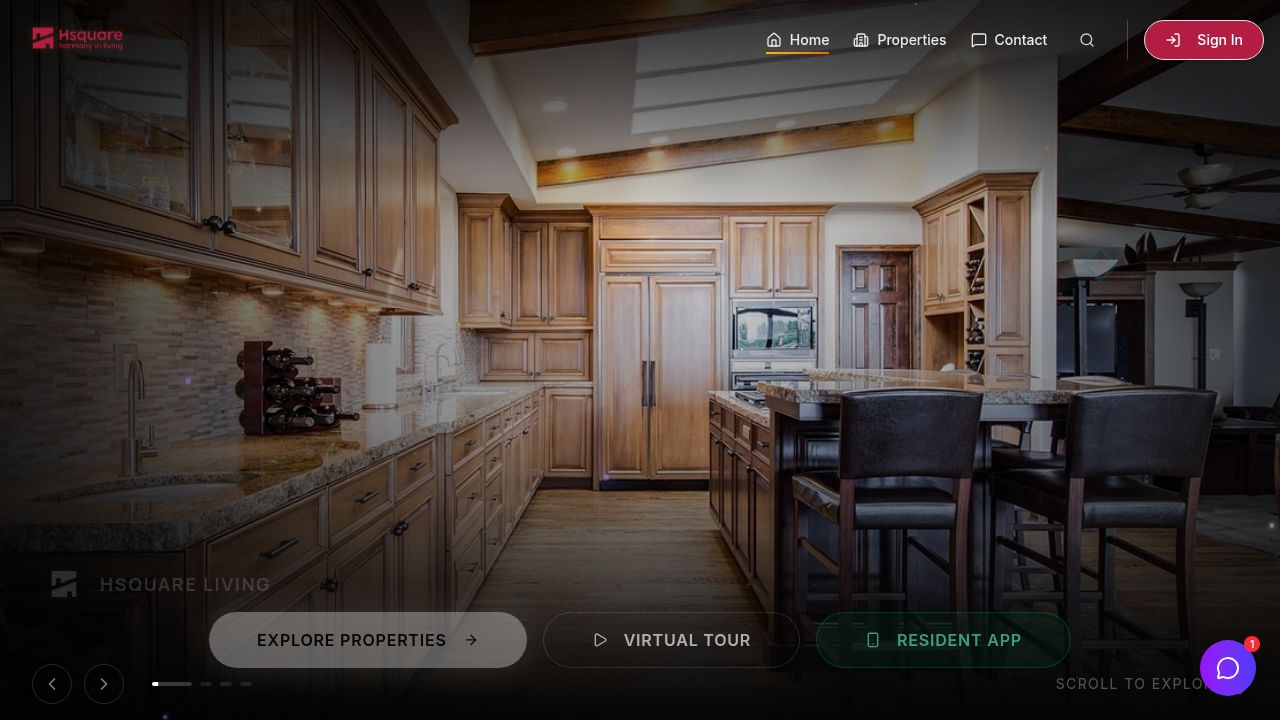
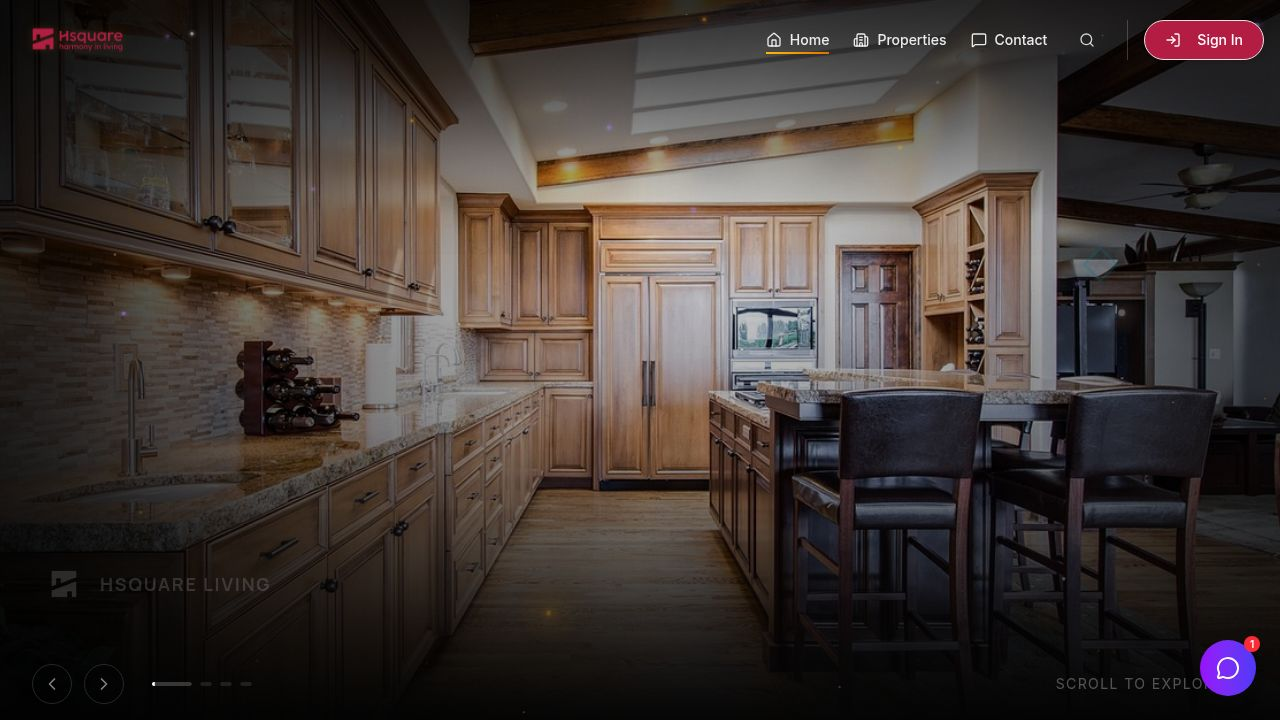
Improve property page performance by removing heavy animations
Remove ParticleBackground, replace Framer Motion animations with CSS transitions, and simplify fullscreen view and progress bar animations.

Replit-Commit-Author: Agent
Replit-Commit-Session-Id: 571d2e0a-bdfa-461c-8d42-0290f49cc8a8
Replit-Commit-Checkpoint-Type: full_checkpoint
Replit-Commit-Event-Id: e01cf620-2c3c-489f-afd0-9998eb312b54
Replit-Commit-Screenshot-Url: https://storage.googleapis.com/screenshot-production-us-central1/407aa99d-4557-45be-8959-002f7409d70a/571d2e0a-bdfa-461c-8d42-0290f49cc8a8/wml9TCs
Replit-Helium-Checkpoint-Created: true

diff --git a/client/src/pages/property-booking.tsx b/client/src/pages/property-booking.tsx
@@ -55,7 +55,6 @@ import {
   Crown, IndianRupee, CheckCircle2,
   GraduationCap, Train, Landmark, Hospital, ShoppingBag, UtensilsCrossed, MapPinned,
 } from "lucide-react";
-import { ParticleBackground } from "@/components/particle-background";
 
 function parseImages(json: string | null | undefined): string[] {
   if (!json) return [];
@@ -82,8 +81,6 @@ function ImmersiveTour({ property, onStartBooking }: { property: any; onStartBoo
   const [isPlaying, setIsPlaying] = useState(true);
   const [isFullscreen, setIsFullscreen] = useState(false);
   const [showGrid, setShowGrid] = useState(false);
-  const [isTransitioning, setIsTransitioning] = useState(false);
-  const [showRoomNav, setShowRoomNav] = useState(true);
   const [cursorPos, setCursorPos] = useState({ x: 50, y: 50 });
   const [isZoomed, setIsZoomed] = useState(false);
   const touchStartX = useRef<number | null>(null);
@@ -107,8 +104,6 @@ function ImmersiveTour({ property, onStartBooking }: { property: any; onStartBoo
 
   useEffect(() => {
     setCurrentIndex(0);
-    setIsTransitioning(true);
-    setTimeout(() => setIsTransitioning(false), 600);
   }, [activeRoom]);
 
   useEffect(() => {
@@ -220,7 +215,7 @@ function ImmersiveTour({ property, onStartBooking }: { property: any; onStartBoo
 
   if (showGrid) {
     return (
-      <motion.div initial={{ opacity: 0 }} animate={{ opacity: 1 }} className={cn("bg-black/98 z-50", isFullscreen ? "fixed inset-0" : "relative")}>
+      <div className={cn("bg-black/98 z-50", isFullscreen ? "fixed inset-0" : "relative")}>
         <div className="flex items-center justify-between p-4 border-b border-white/10">
           <div className="flex items-center gap-3">
             <Grid3X3 className="w-5 h-5 text-amber-500" />
@@ -244,37 +239,35 @@ function ImmersiveTour({ property, onStartBooking }: { property: any; onStartBoo
                 </div>
                 <div className="grid grid-cols-3 md:grid-cols-4 lg:grid-cols-5 gap-2">
                   {roomImages.map((img, i) => (
-                    <motion.button key={i} whileHover={{ scale: 1.03 }} onClick={() => { setActiveRoom(room.id); setCurrentIndex(i); setShowGrid(false); }} className="relative aspect-[4/3] overflow-hidden group rounded-lg" data-testid={`grid-image-${room.id}-${i}`}>
+                    <button key={i} onClick={() => { setActiveRoom(room.id); setCurrentIndex(i); setShowGrid(false); }} className="relative aspect-[4/3] overflow-hidden group rounded-lg hover:scale-[1.03] transition-transform" data-testid={`grid-image-${room.id}-${i}`}>
                       <img src={img} alt="" className="w-full h-full object-cover" loading="lazy" />
                       <div className="absolute inset-0 bg-black/0 group-hover:bg-black/30 transition-all flex items-center justify-center">
                         <Eye className="w-6 h-6 text-white opacity-0 group-hover:opacity-100 transition-opacity" />
                       </div>
-                    </motion.button>
+                    </button>
                   ))}
                 </div>
               </div>
             );
           })}
         </div>
-      </motion.div>
+      </div>
     );
   }
 
   if (isFullscreen) {
     return (
-      <motion.div initial={{ opacity: 0 }} animate={{ opacity: 1 }} className="fixed inset-0 z-50 bg-black">
+      <div className="fixed inset-0 z-50 bg-black">
         <div className="absolute inset-0" onTouchStart={handleTouchStart} onTouchEnd={handleTouchEnd} onMouseMove={handleMouseMove} ref={containerRef}>
-          <AnimatePresence mode="wait">
-            <motion.div key={`fs-${activeRoom}-${currentIndex}`} initial={{ opacity: 0, scale: 1.02 }} animate={{ opacity: 1, scale: 1 }} exit={{ opacity: 0 }} transition={{ duration: 0.8, ease: [0.25, 0.1, 0.25, 1] }} className="absolute inset-0">
-              <motion.img src={images[currentIndex]} alt="" className="w-full h-full object-cover" style={isZoomed ? { transform: "scale(2)", transformOrigin: `${cursorPos.x}% ${cursorPos.y}%` } : {}} initial={{ scale: 1.08 }} animate={{ scale: 1 }} transition={{ duration: 12, ease: "linear" }} />
-            </motion.div>
-          </AnimatePresence>
+          <div className="absolute inset-0">
+            <img src={images[currentIndex]} alt="" className="w-full h-full object-cover transition-opacity duration-500" style={isZoomed ? { transform: "scale(2)", transformOrigin: `${cursorPos.x}% ${cursorPos.y}%` } : {}} />
+          </div>
           <div className="absolute inset-0 bg-gradient-to-b from-black/60 via-transparent to-black/70 pointer-events-none" />
         </div>
 
         <div className="absolute top-0 left-0 right-0 z-10">
           <div className="h-[3px] bg-white/10">
-            <motion.div className="h-full bg-gradient-to-r from-amber-500 to-amber-400" initial={{ width: 0 }} animate={{ width: `${progress}%` }} transition={{ duration: 0.5 }} />
+            <div className="h-full bg-gradient-to-r from-amber-500 to-amber-400 transition-all duration-500" style={{ width: `${progress}%` }} />
           </div>
           <div className="flex items-center justify-between px-6 py-4">
             <div className="flex items-center gap-4">
@@ -344,7 +337,7 @@ function ImmersiveTour({ property, onStartBooking }: { property: any; onStartBoo
             </div>
           </div>
         </div>
-      </motion.div>
+      </div>
     );
   }
 
@@ -356,35 +349,23 @@ function ImmersiveTour({ property, onStartBooking }: { property: any; onStartBoo
         onTouchStart={handleTouchStart}
         onTouchEnd={handleTouchEnd}
         onClick={() => images.length > 0 && setIsFullscreen(true)}
-        onMouseEnter={() => setShowRoomNav(true)}
       >
         {images.length > 0 ? (
           <>
-            <AnimatePresence mode="wait">
-              <motion.div
-                key={`tour-${activeRoom}-${currentIndex}`}
-                initial={{ opacity: 0 }}
-                animate={{ opacity: 1 }}
-                exit={{ opacity: 0 }}
-                transition={{ duration: 0.8, ease: [0.25, 0.1, 0.25, 1] }}
-                className="absolute inset-0"
-              >
-                <motion.img
-                  src={images[currentIndex]}
-                  alt=""
-                  className="w-full h-full object-cover"
-                  initial={{ scale: 1.05 }}
-                  animate={{ scale: 1 }}
-                  transition={{ duration: 10, ease: "linear" }}
-                />
-              </motion.div>
-            </AnimatePresence>
+            <div className="absolute inset-0">
+              <img
+                src={images[currentIndex]}
+                alt=""
+                className="w-full h-full object-cover transition-opacity duration-500"
+                loading="eager"
+              />
+            </div>
 
             <div className="absolute inset-0 bg-gradient-to-t from-black/80 via-black/5 to-black/50 pointer-events-none" />
 
             <div className="absolute top-[72px] left-0 right-0 z-[5]">
               <div className="h-[2px] bg-white/10">
-                <motion.div className="h-full bg-gradient-to-r from-amber-500 to-amber-400" animate={{ width: `${progress}%` }} transition={{ duration: 0.4 }} />
+                <div className="h-full bg-gradient-to-r from-amber-500 to-amber-400 transition-all duration-400" style={{ width: `${progress}%` }} />
               </div>
             </div>
 
@@ -1706,7 +1687,6 @@ function PropertyBooking() {
 
   return (
     <div className="min-h-screen bg-[#050505] relative">
-      <ParticleBackground preset="sparse" />
       <div className="relative">
         <ImmersiveTour property={property} onStartBooking={scrollToFloors} />
       </div>
@@ -1759,20 +1739,16 @@ function PropertyBooking() {
                   Amenities & Facilities
                 </h2>
                 <div className="grid grid-cols-2 md:grid-cols-3 gap-2">
-                  {property.amenities.map((am: string, i: number) => (
-                    <motion.div
+                  {property.amenities.map((am: string) => (
+                    <div
                       key={am}
-                      initial={{ opacity: 0, y: 10 }}
-                      whileInView={{ opacity: 1, y: 0 }}
-                      viewport={{ once: true }}
-                      transition={{ delay: i * 0.02 }}
                       className="flex items-center gap-2.5 px-3 py-2.5 bg-white/[0.03] border border-white/[0.08] rounded-xl text-sm text-white/70 hover:border-amber-500/20 hover:bg-amber-500/5 transition-all group"
                     >
                       <div className="w-6 h-6 bg-amber-500/10 border border-amber-500/20 rounded-lg flex items-center justify-center shrink-0 group-hover:bg-amber-500/20 transition-colors">
                         <Check className="w-3.5 h-3.5 text-amber-500" />
                       </div>
                       {am}
-                    </motion.div>
+                    </div>
                   ))}
                 </div>
               </div>
@@ -1807,12 +1783,8 @@ function PropertyBooking() {
                     };
                     const colorClass = categoryColors[loc.category] || categoryColors.other;
                     return (
-                      <motion.div
+                      <div
                         key={loc.id || i}
-                        initial={{ opacity: 0, y: 10 }}
-                        whileInView={{ opacity: 1, y: 0 }}
-                        viewport={{ once: true }}
-                        transition={{ delay: i * 0.03 }}
                         className="flex items-center gap-3 px-4 py-3 bg-white/[0.03] border border-white/[0.08] rounded-xl hover:border-amber-500/20 hover:bg-white/[0.05] transition-all"
                         data-testid={`nearby-location-${loc.id || i}`}
                       >
@@ -1824,7 +1796,7 @@ function PropertyBooking() {
                           <p className="text-xs text-white/40 capitalize">{loc.category}</p>
                         </div>
                         <span className="text-xs text-amber-400 font-semibold whitespace-nowrap">{loc.distance}</span>
-                      </motion.div>
+                      </div>
                     );
                   })}
                 </div>
@@ -1851,13 +1823,9 @@ function PropertyBooking() {
                 Room Types & Pricing
               </h2>
               <div className="space-y-3">
-                {property.roomTypes?.map((room: any, i: number) => (
-                  <motion.div
+                {property.roomTypes?.map((room: any) => (
+                  <div
                     key={room.id}
-                    initial={{ opacity: 0, y: 20 }}
-                    whileInView={{ opacity: 1, y: 0 }}
-                    viewport={{ once: true }}
-                    transition={{ delay: i * 0.05 }}
                     className="bg-white/[0.03] border border-white/[0.08] rounded-xl p-5 hover:border-amber-500/20 hover:bg-white/[0.05] transition-all group backdrop-blur-sm"
                     data-testid={`room-card-${room.id}`}
                   >
@@ -1919,7 +1887,7 @@ function PropertyBooking() {
                         </Button>
                       </div>
                     </div>
-                  </motion.div>
+                  </div>
                 ))}
               </div>
             </div>
